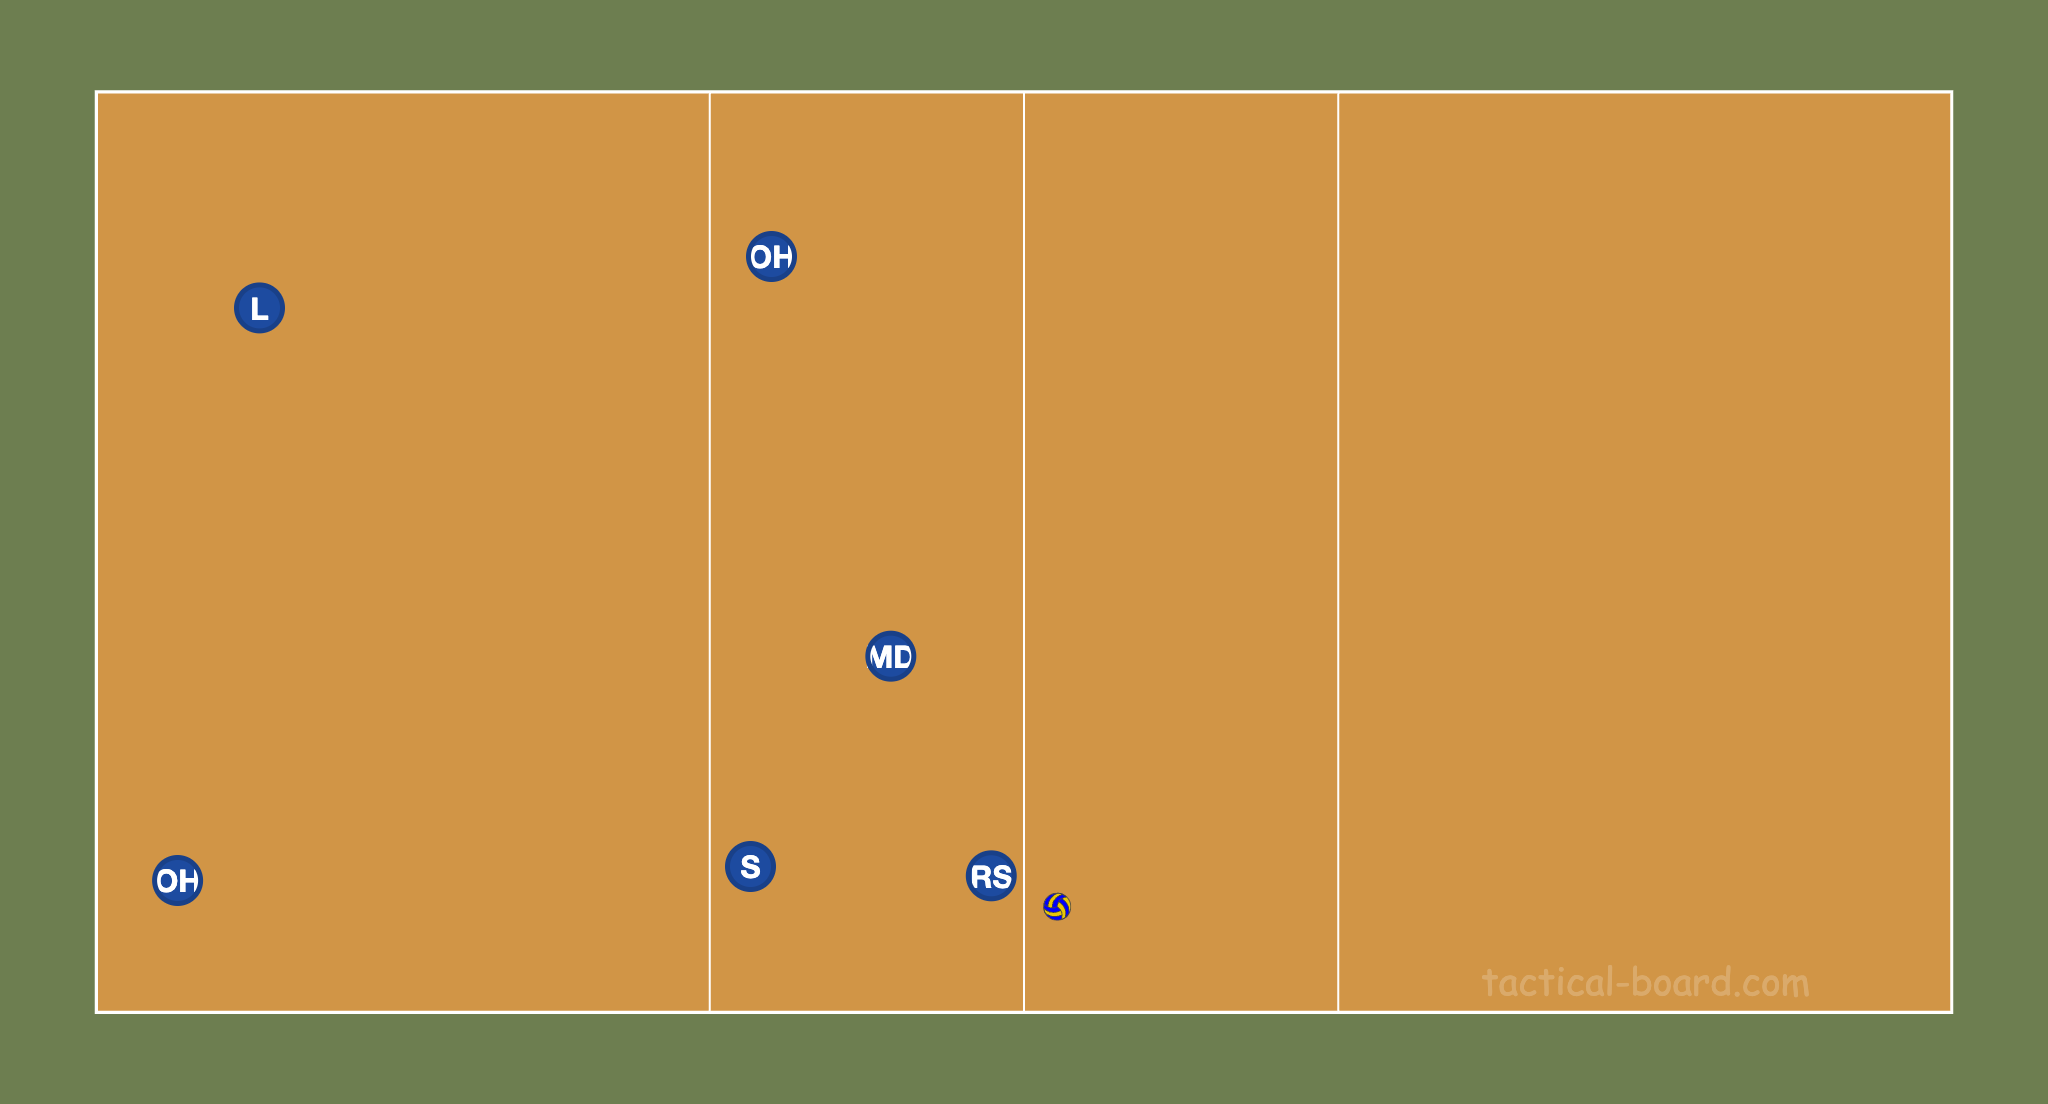
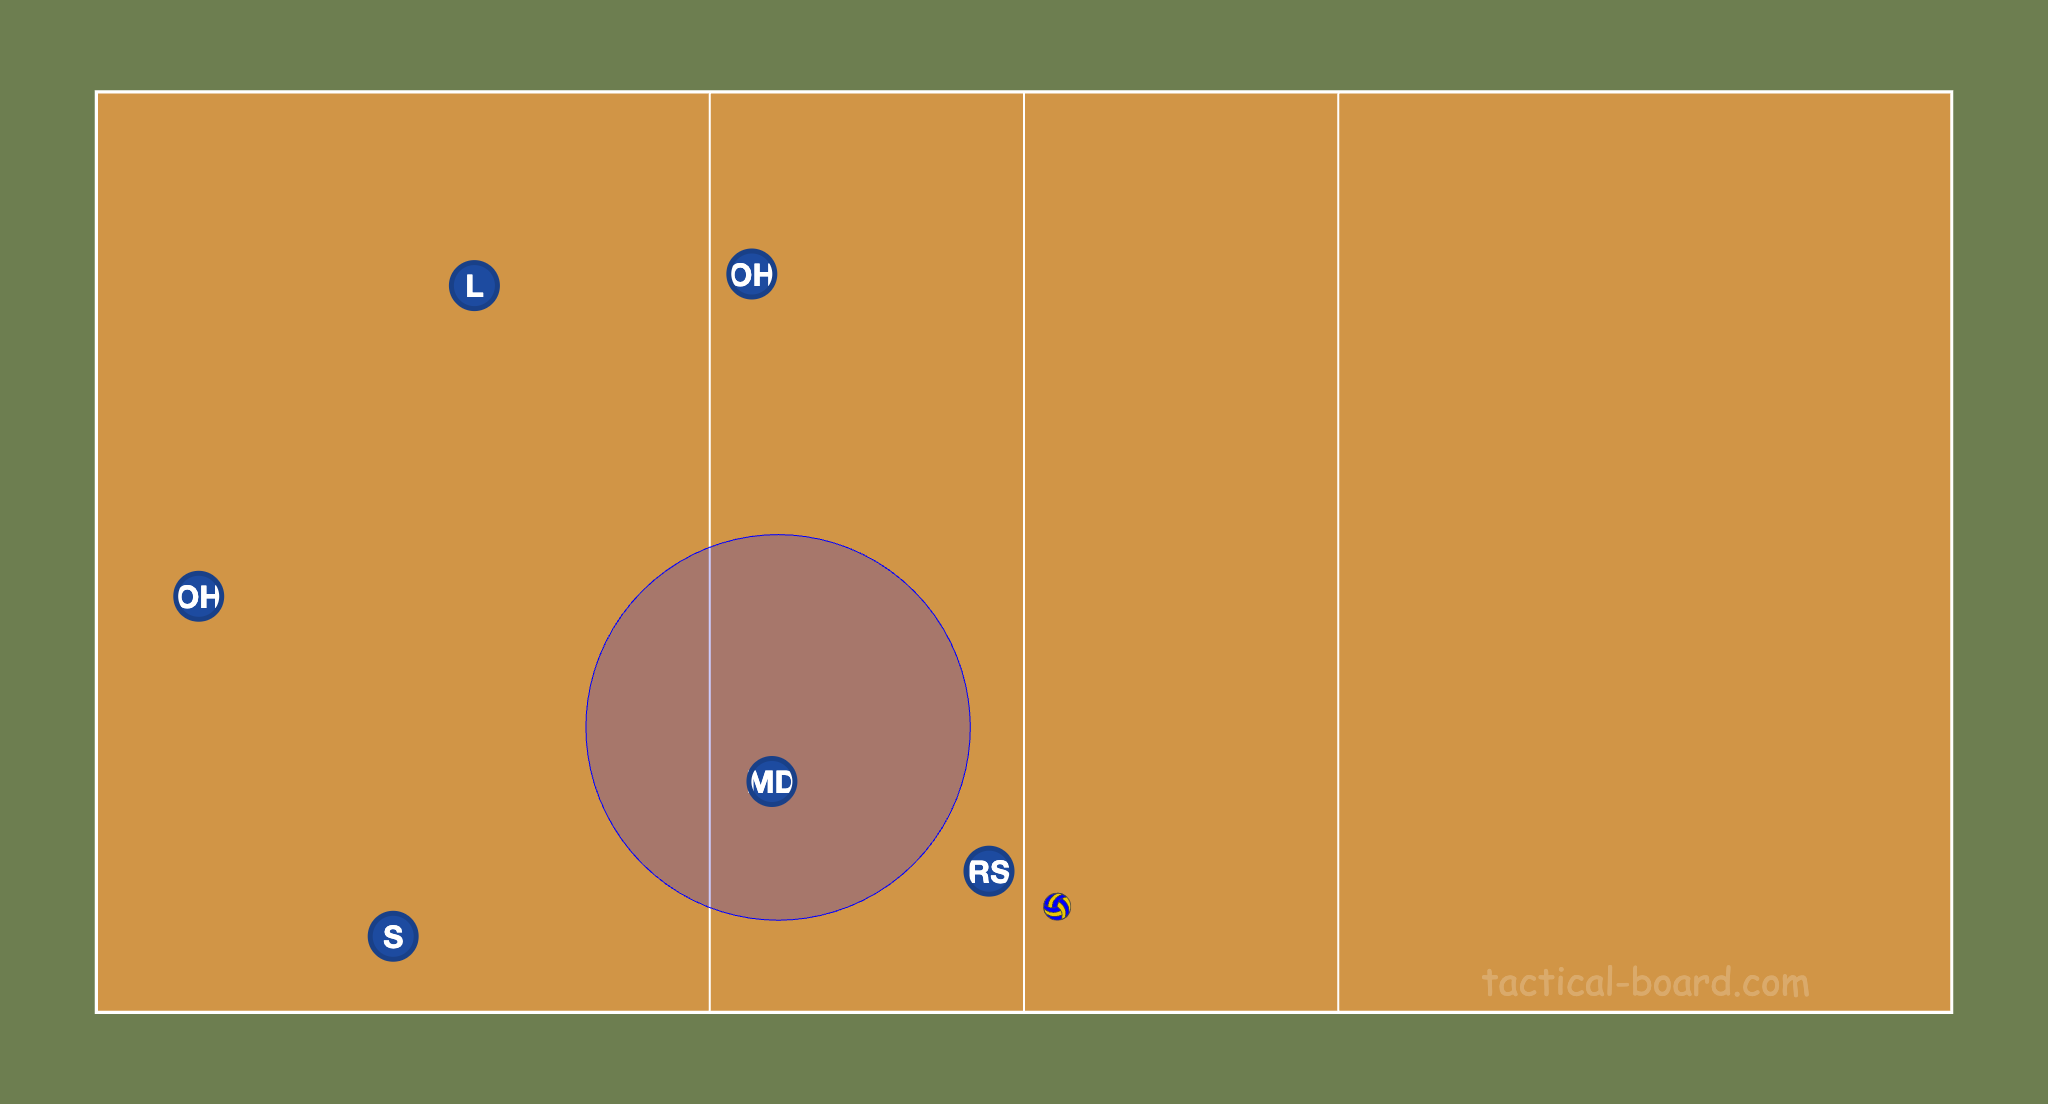
update table and board - only cross

diff --git a/index.html b/index.html
@@ -16,60 +16,77 @@
     <thead>
       <tr>
         <th rowspan="3"></th>
-        <th colspan="3">Block line</th>
-        <th colspan="3">Block cross</th>
+        <!-- <th colspan="3">Block line</th> -->
+        <th colspan="4">Block cross</th>
       </tr>
       <tr>
+        <!-- <th colspan="2">two blocks</th>
+        <th>one block</th> -->
         <th colspan="2">two blocks</th>
         <th>one block</th>
-        <th colspan="2">two blocks</th>
-        <th>one block</th>
+        <th>CK front row</th>
       </tr>
       <tr>
+        <!-- <th>no gap</th>
+        <th>has gap</th>
+        <th></th> -->
         <th>no gap</th>
         <th>has gap</th>
         <th></th>
-        <th>no gap</th>
-        <th>has gap</th>
         <th></th>
       </tr>
     </thead>
     <tbody>
       <tr>
-        <th>front row OH</th>
-        <td data-unit="1">pos 4 – small cross or roll</td>
+        <th>front row OH</th> 
+
+        <!-- <td data-unit="1">pos 4 – small cross or roll</td>
         <td data-unit="2">pos 4 – small cross or roll</td>
-        <td data-unit="3">pos 4 – small cross or roll</td>
+        <td data-unit="3">pos 4 – small cross or roll</td> -->
         <td data-unit="4">pos 4 – small cross or roll</td>
         <td data-unit="5">pos 4 – small cross or roll</td>
         <td data-unit="6">pos 4 – small cross or roll</td>
+        <td data-unit="7">pos 4 – small cross or roll</td> <!-- New CK block cell -->
       </tr>
       <tr>
         <th>L</th>
-        <td data-unit="1">pos 5 closer to 6 – long cross</td>
+        <!-- <td data-unit="1">pos 5 closer to 6 – long cross</td>
         <td data-unit="2">pos 5 closer to 6 – long cross</td>
-        <td data-unit="3">pos 5 closer to 6 – long cross</td>
+        <td data-unit="3">pos 5 closer to 6 – long cross</td> -->
         <td data-unit="4">pos 5 closer to 6 – long cross, touchout</td>
         <td data-unit="5">pos 5 closer to 6 – gap, move forward, long cross</td>
-        <td data-unit="6">pos 5 closer to 6 – long cross</td>
+        <td data-unit="6">pos 5 – long/small cross</td>
+        <td data-unit="7">pos 5 – long/small cross</td>
       </tr>
       <tr>
         <th>back row OH</th>
-        <td data-unit="1">pos 6 closer to 1 – touch out</td>
+        <!-- <td data-unit="1">pos 6 closer to 1 – touch out</td>
         <td data-unit="2">pos 6 closer to 1 – gap</td>
-        <td data-unit="3">pos 6 closer to 1 – next to block, potential high roll in pos 1</td>
+        <td data-unit="3">pos 6 closer to 1 – next to block, potential high roll in pos 1</td> -->
         <td data-unit="4">pos 1 – get line ball, touchout</td>
         <td data-unit="5">pos 1 – get line ball, touchout</td>
-        <td data-unit="6">pos 1 – get line ball, touchout</td>
+        <td data-unit="6">pos 6 – touchout</td>
+        <td data-unit="7">pos 6 – touchout</td>
       </tr>
       <tr>
         <th>S or RS</th>
-        <td data-unit="1">tips</td>
+        <!-- <td data-unit="1">tips</td>
         <td data-unit="2">tips</td>
-        <td data-unit="3">tips</td>
+        <td data-unit="3">tips</td> -->
         <td data-unit="4">tips</td>
         <td data-unit="5">tips</td>
+        <td data-unit="6">line</td>
+        <td data-unit="7">line</td>
+      </tr>
+      <tr>
+        <th>front row MD</th>
+        <!-- <td data-unit="1"></td>
+        <td data-unit="2"></td>
+        <td data-unit="3">tips</td> -->
+        <td data-unit="4"></td>
+        <td data-unit="5"></td>
         <td data-unit="6">tips</td>
+        <td data-unit="7">block</td>
       </tr>
     </tbody>
   </table>

diff --git a/script.js b/script.js
@@ -4,7 +4,8 @@ const unitImages = {
     3: 'images/block-line_oneBlock.png',
     4: 'images/block-cross_twoBlocks_noGap.png',
     5: 'images/block-cross_twoBlocks_hasGap.png',
-    6: 'images/block-cross_oneBlock.png'
+    6: 'images/block-cross_oneBlock.png',
+    7: 'images/CK_front_row.png'
   };
   
   const previewImg = document.getElementById('preview-img');
